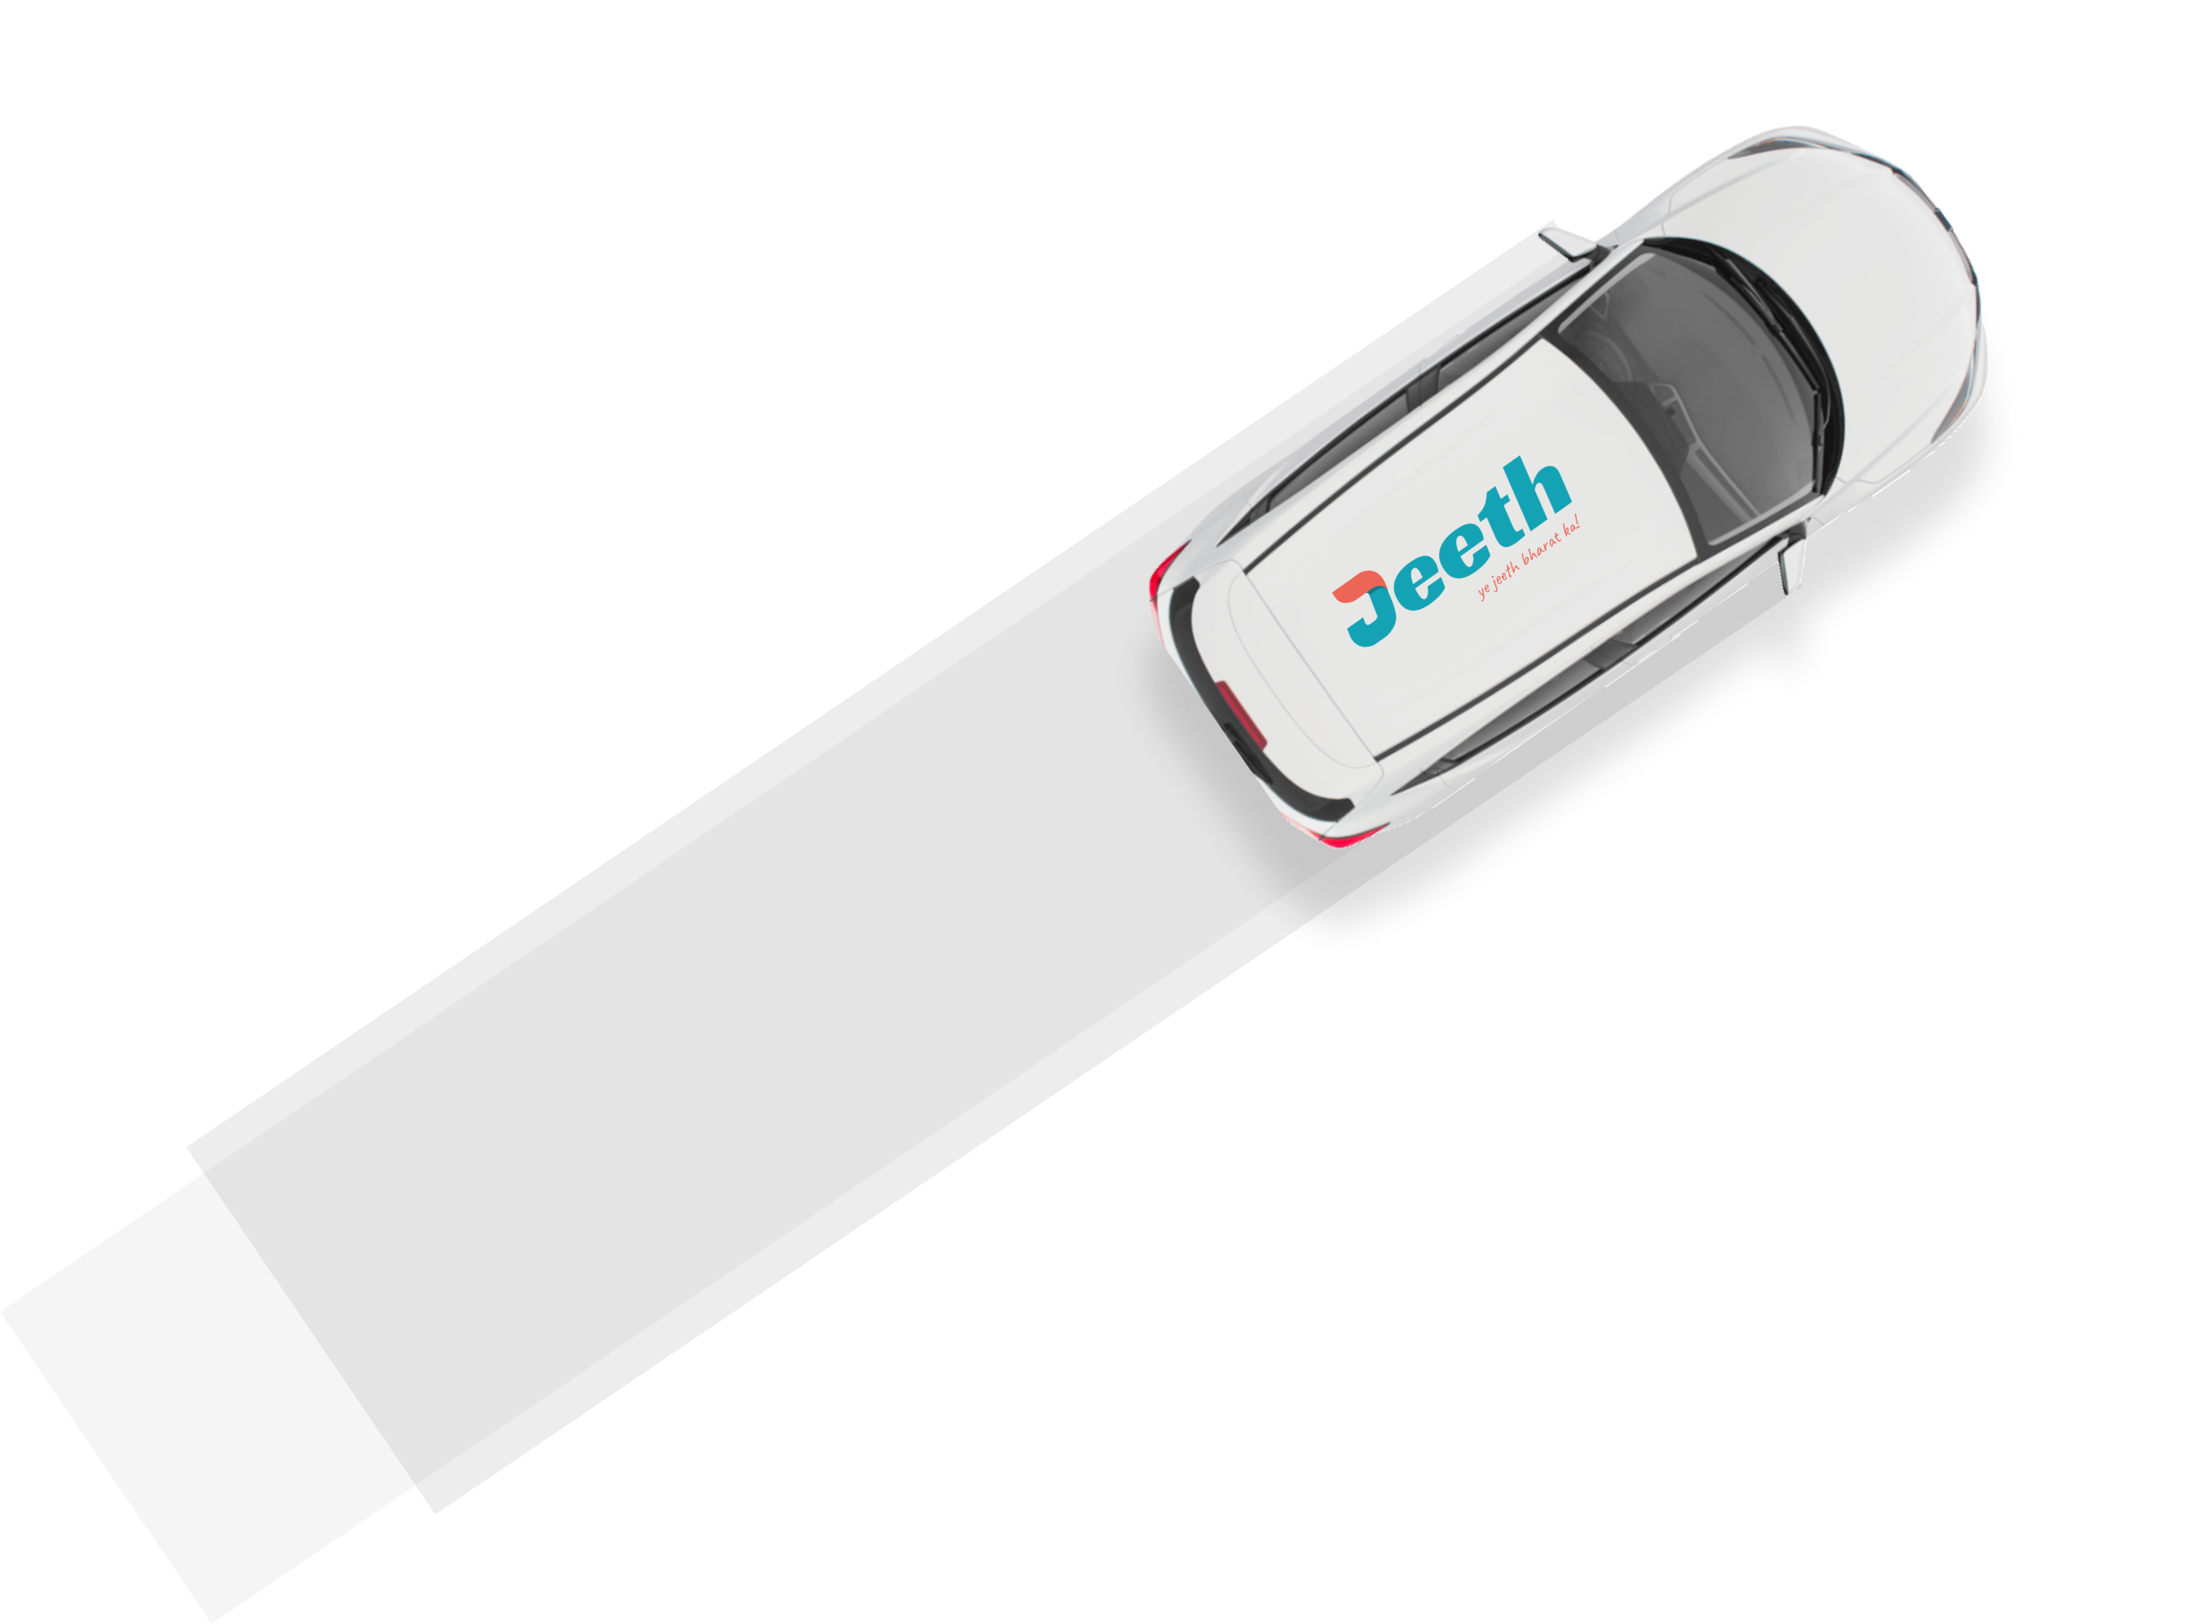
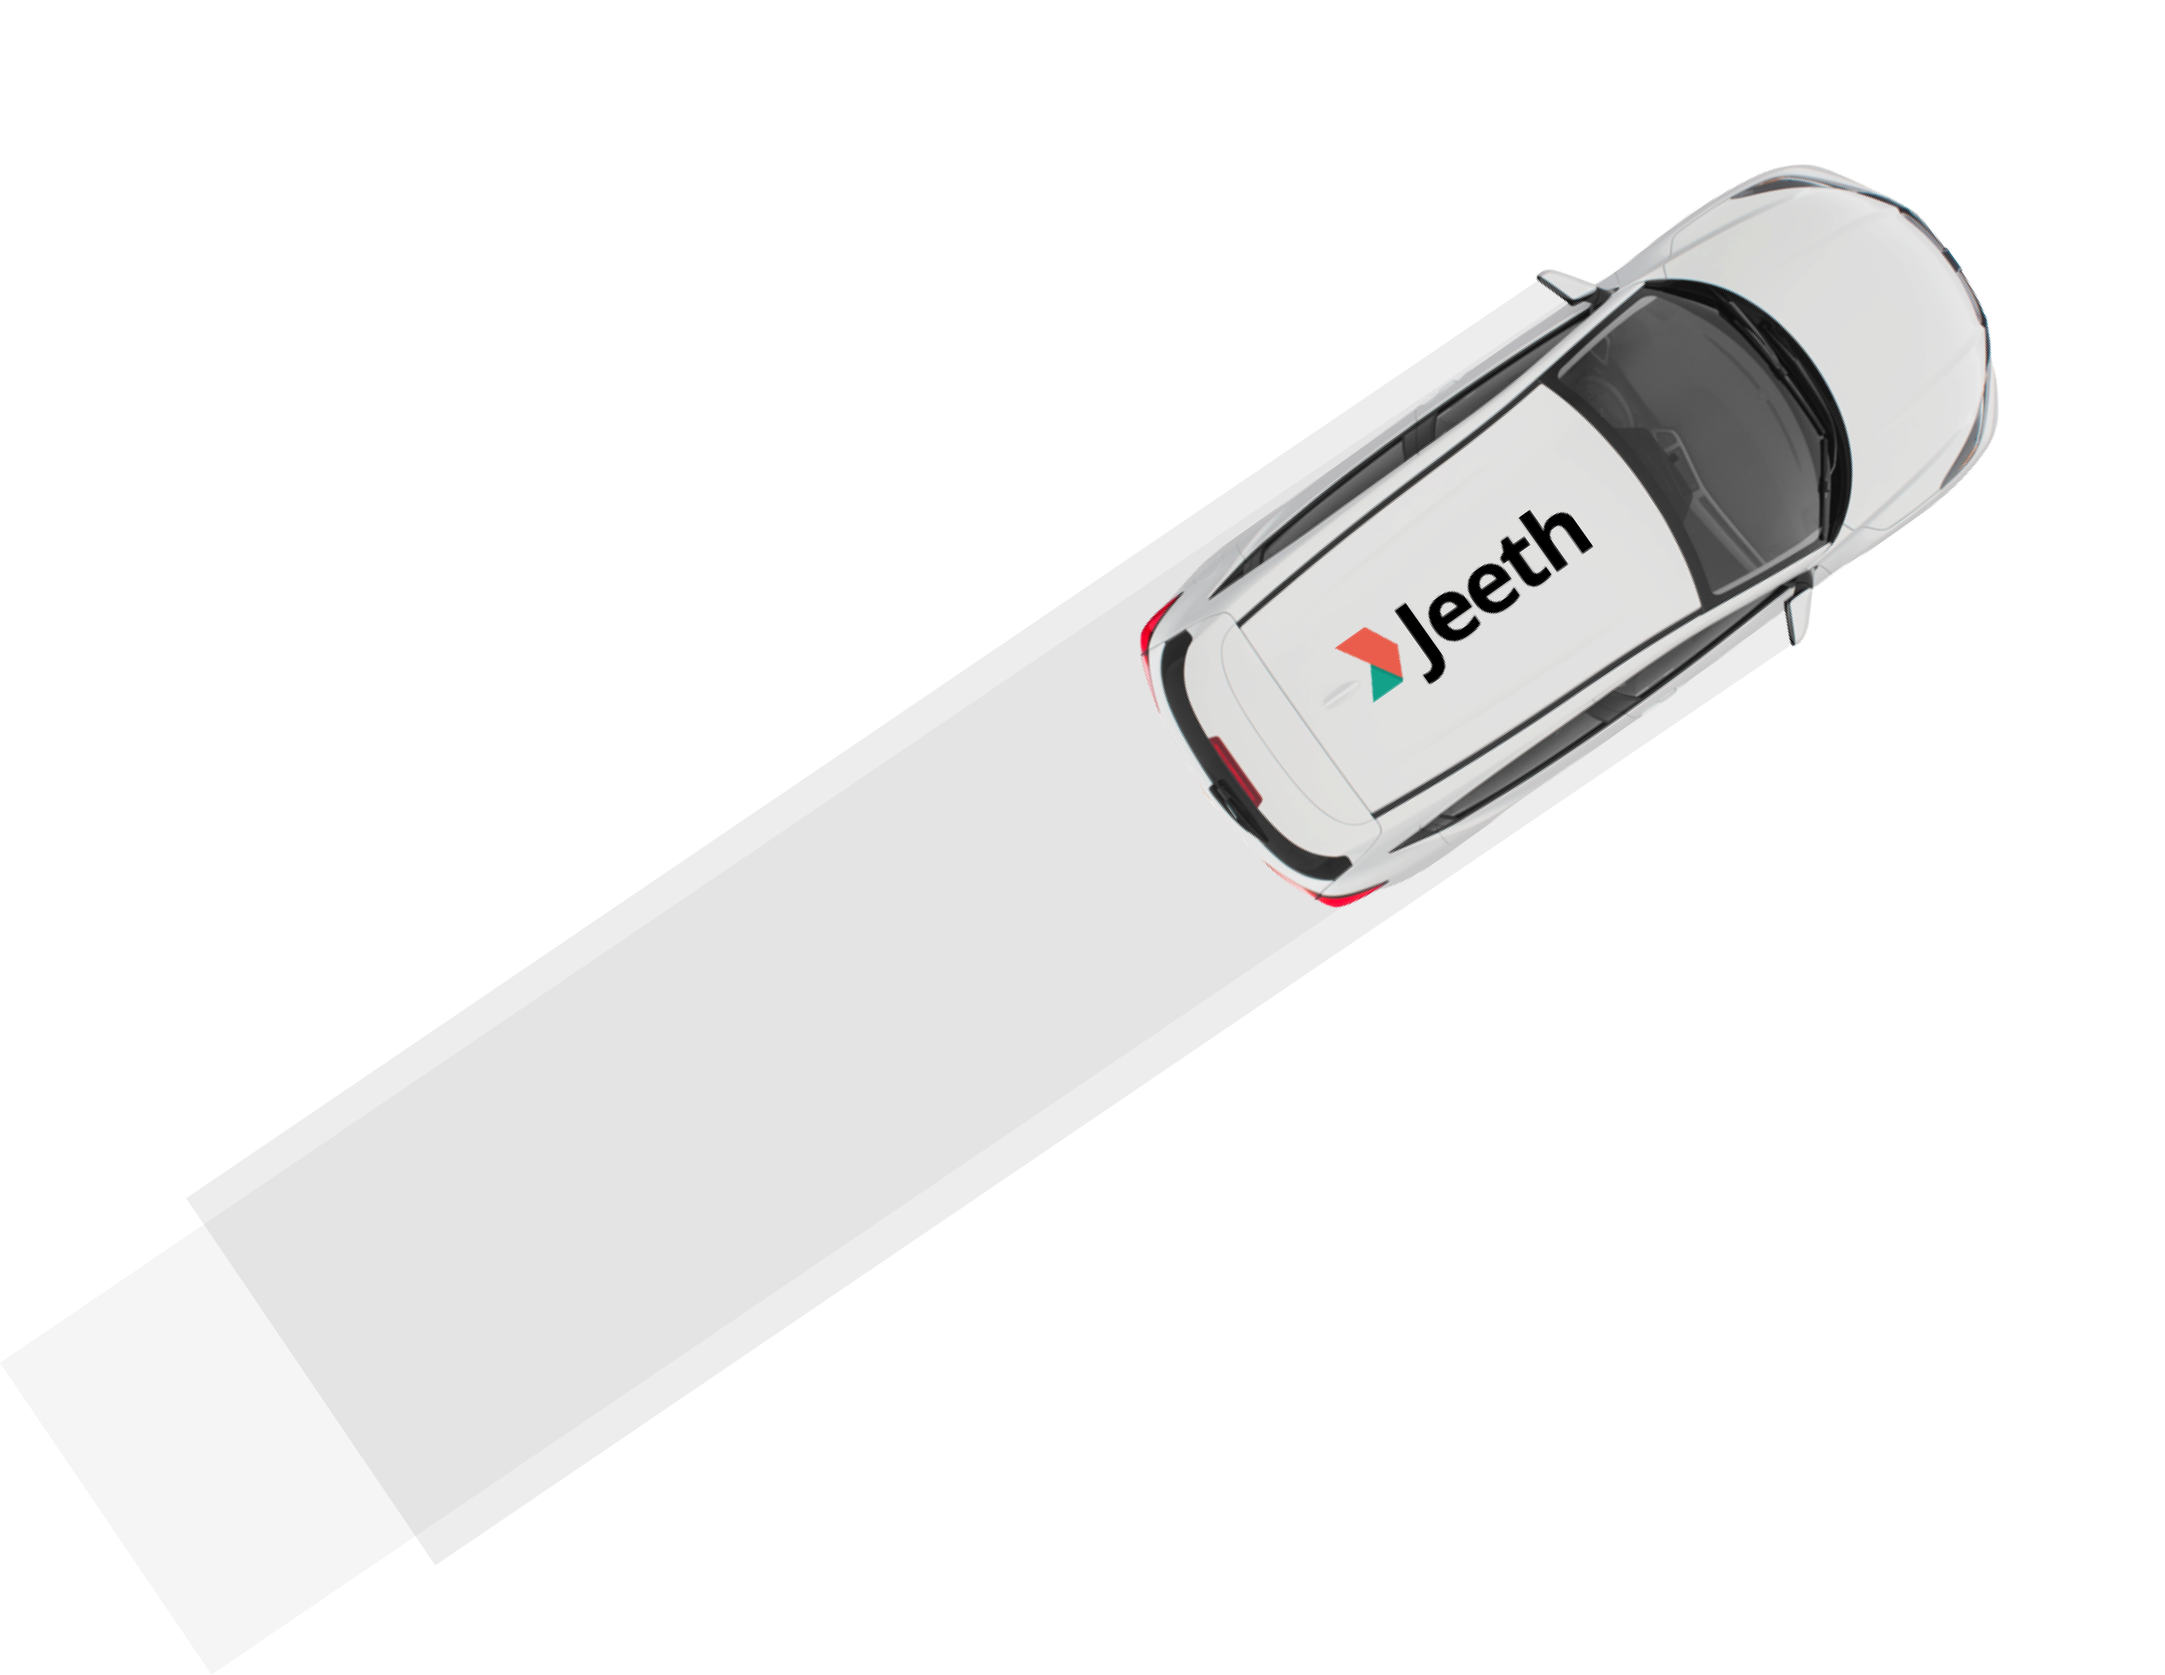
update theme

Changed region(s): [[0.4976, 0.062, 0.9329, 0.5582]]

diff --git a/src/components/footer.tsx b/src/components/footer.tsx
@@ -7,7 +7,7 @@ export const Footer = () => {
         <div className="grid grid-cols-1 sm:grid-cols-2 md:grid-cols-4 gap-4">
 
           <div className="my-4">
-            <img className="mb-4" src={'logo.png'} alt="Jeeth Logo" />
+            <img className="mb-4" src={'logo-light.png'} alt="Jeeth Logo" />
             <p className="text-sm text-gray-500">Lorem ipsum dolor sit amet consectetur adipisicing elit. Odio quas repudiandae pariatur culpa quam est, earum beatae fuga tenetur ad.</p>
           </div>
 

diff --git a/tailwind.config.ts b/tailwind.config.ts
@@ -9,7 +9,7 @@ const config: Config = {
   theme: {
     extend: {
       colors: {
-        primary: '#14A3B5',
+        primary: '#13A189',
         secondary: '#3B393A',
       },
     },
